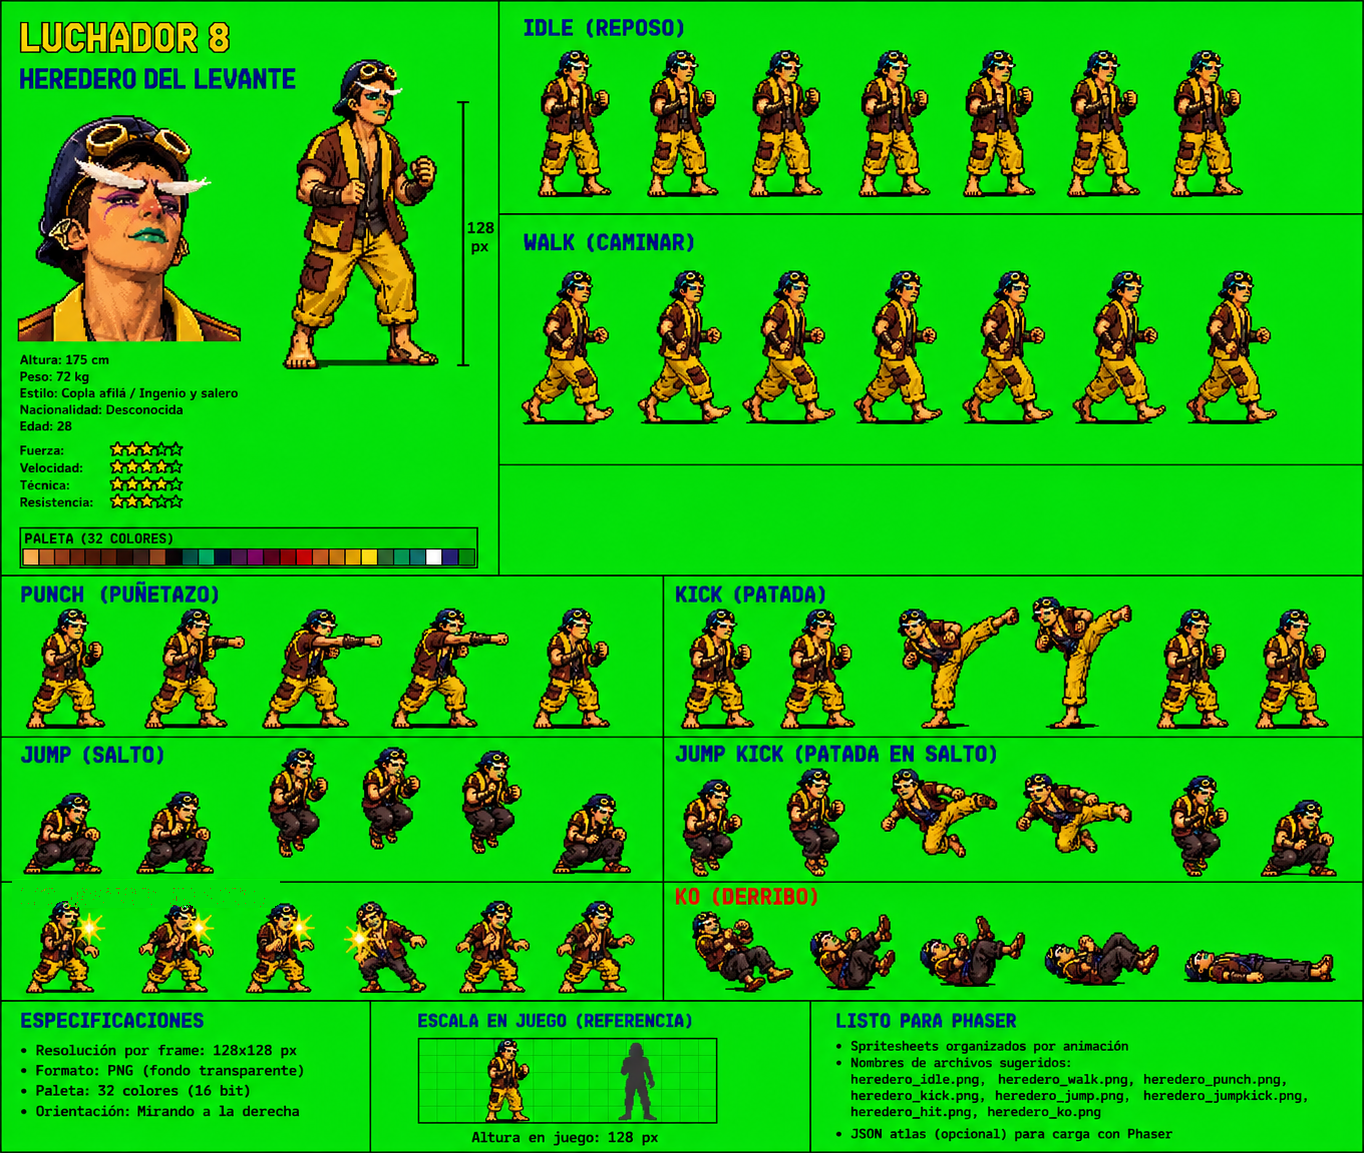
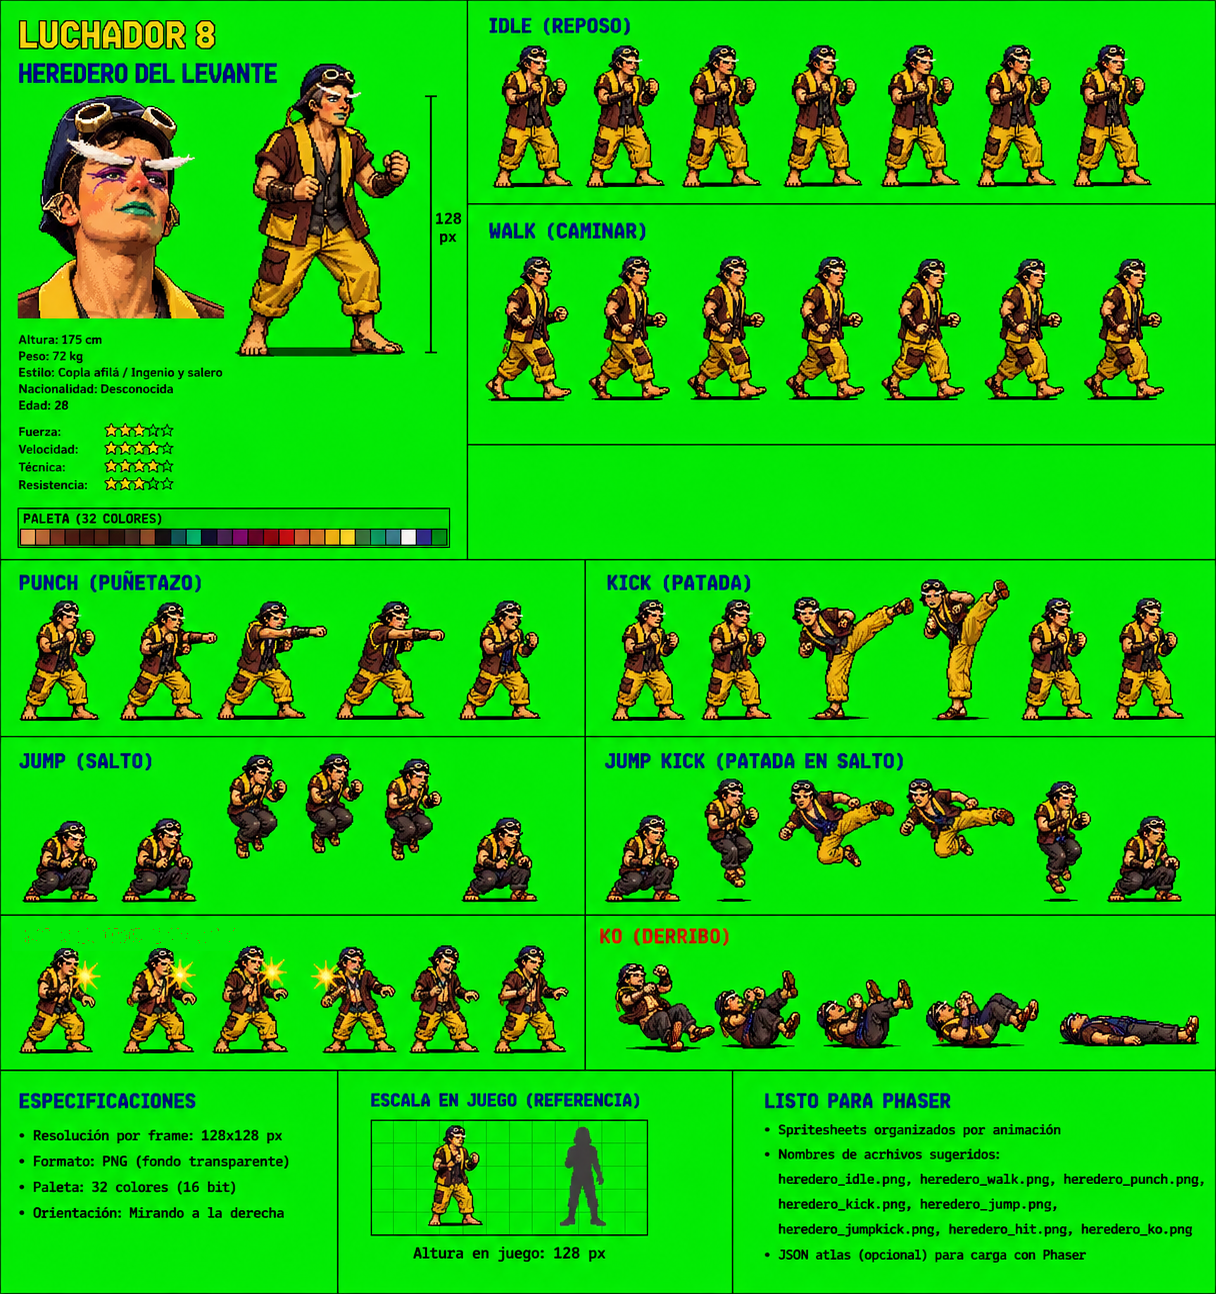
feat: lámina nueva del Heredero del Levante (rótulo HIT borrado en la fuente de assets/)

diff --git a/tools/extract_sprites.py b/tools/extract_sprites.py
@@ -146,19 +146,19 @@ FIGHTERS = {
             'punch': [0, 1, 2, 3, 3, 4],
         },
     },
-    # Heredero del Levante: como Selu (7 idle/walk, 5 puñetazo). Las filas de acción están dibujadas
-    # bastante más pequeñas que las de reposo.
+    # Heredero del Levante: como Selu (7 idle/walk, 5 puñetazo). Las filas de acción están dibujadas más
+    # pequeñas que las de reposo. En la fuente de assets/ se ha borrado el rótulo HIT, que tocaba las cabezas.
     'heredero': {
-        'portrait': ('heredero', 15, 113, 243, 344),  # (x0, y0, x1, y1)
+        'portrait': ('heredero', 16, 93, 226, 321),  # (x0, y0, x1, y1)
         'rows': {
-            'idle':     ('heredero', 40, 206, 525, 1255, 7, 1.0),
-            'walk':     ('heredero', 262, 432, 505, 1290, 7, 1.0),
-            'punch':    ('heredero', 598, 736, 15, 650, 5, 1.2),
-            'kick':     ('heredero', 588, 736, 668, 1345, 6, 1.2),
-            'jump':     ('heredero', 742, 881, 12, 650, 6, 1.2),
-            'jumpkick': ('heredero', 744, 881, 668, 1350, 6, 1.2),
-            'hit':      ('heredero', 884, 1000, 12, 650, 6, 1.2),
-            'ko':       ('heredero', 900, 1000, 668, 1345, 5, 1.2),
+            'idle':     ('heredero', 36, 196, 482, 1165, 7, 1.0),
+            'walk':     ('heredero', 248, 410, 475, 1175, 7, 1.0),
+            'punch':    ('heredero', 590, 730, 10, 555, 5, 1.17),
+            'kick':     ('heredero', 570, 730, 592, 1198, 6, 1.17),
+            'jump':     ('heredero', 746, 912, 10, 578, 6, 1.17),
+            'jumpkick': ('heredero', 770, 912, 594, 1198, 6, 1.17),
+            'hit':      ('heredero', 918, 1062, 10, 580, 6, 1.17),
+            'ko':       ('heredero', 952, 1062, 602, 1208, 5, 1.17),
         },
         'order': {
             'idle': [0, 1, 2, 3, 3, 4, 5, 6],
